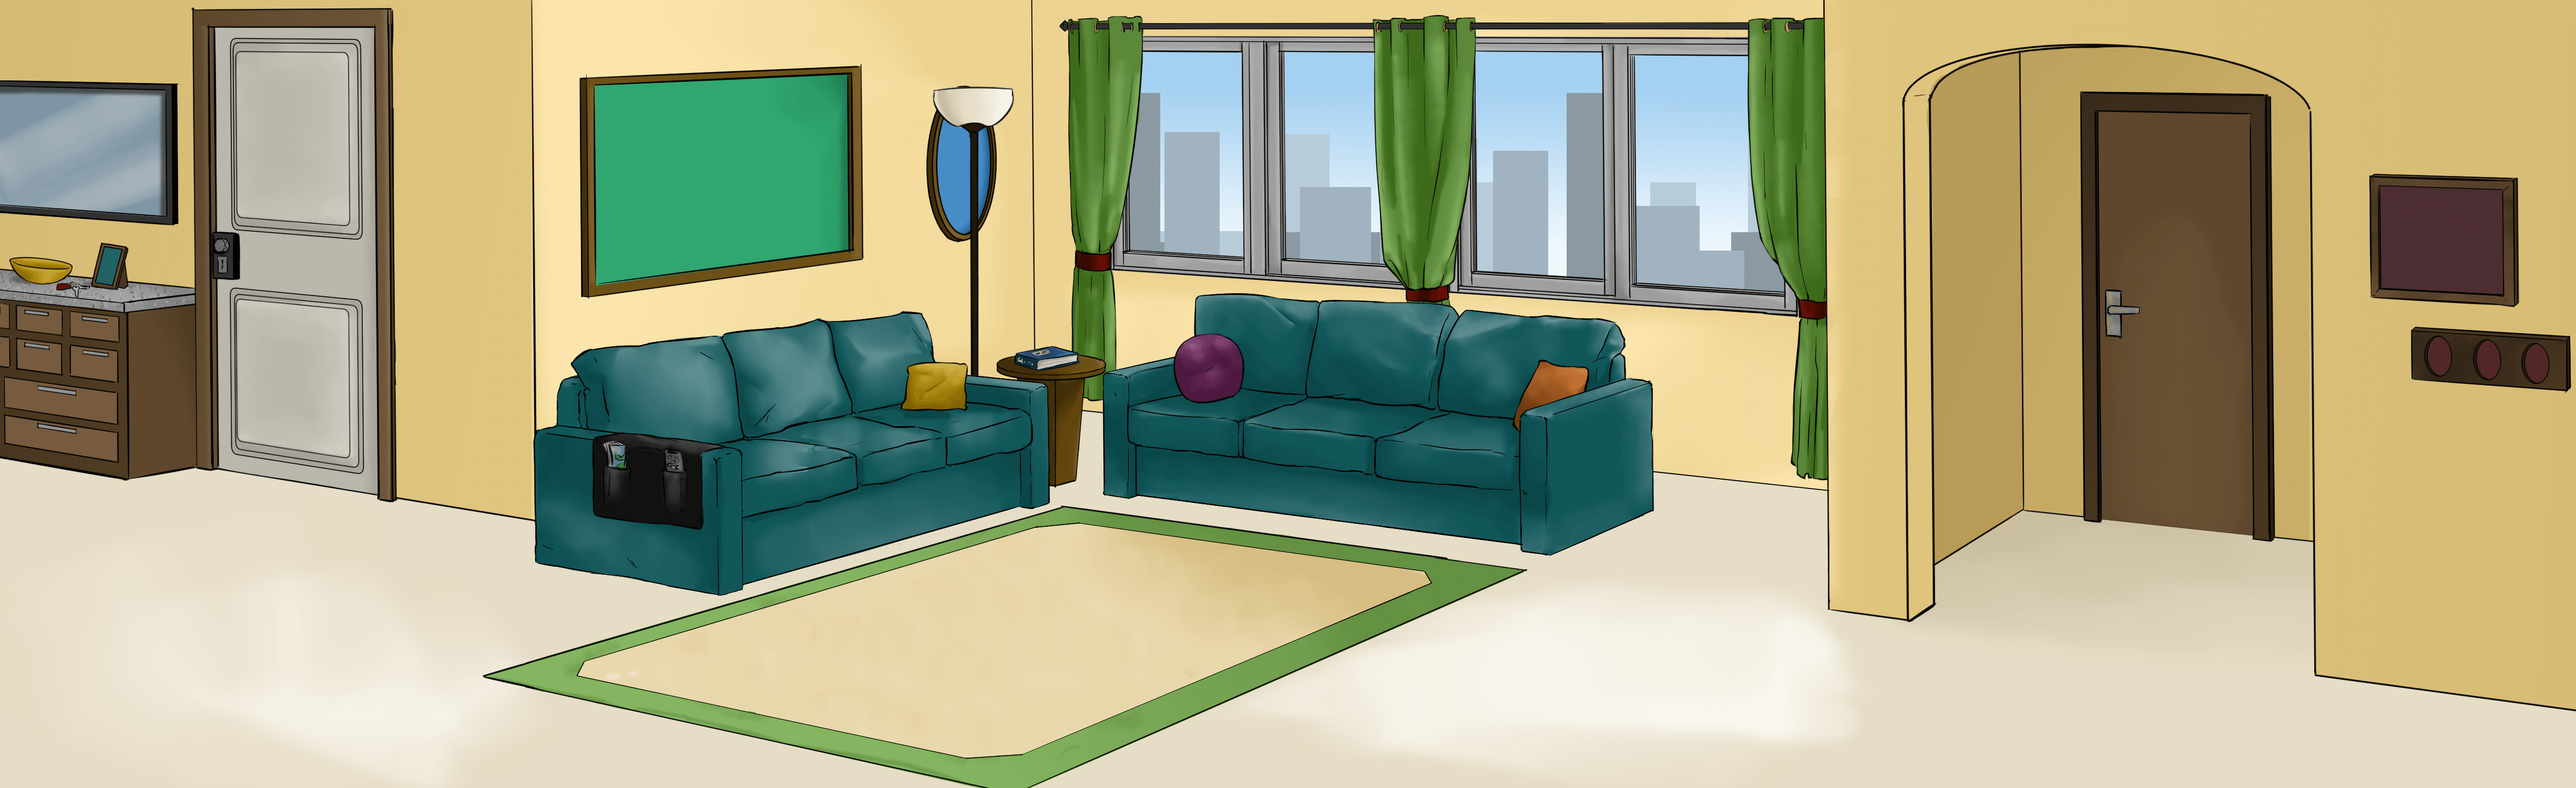
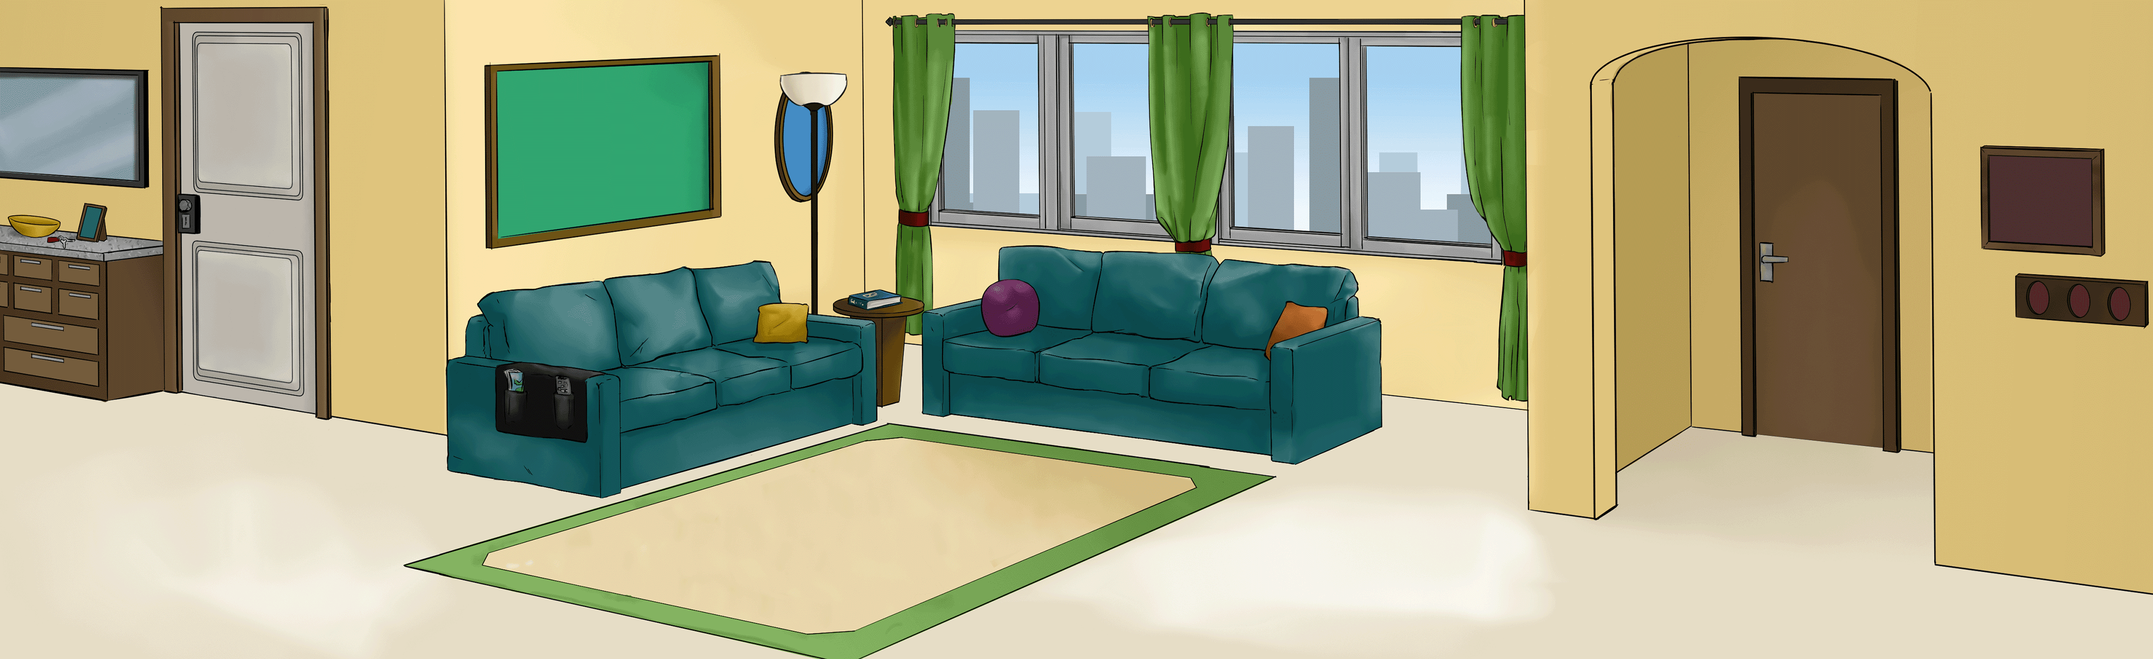
Debería poder cargar la imagen del salón

diff --git a/src/scenes/gameLoop/baseScenarios/livingroomBase.js b/src/scenes/gameLoop/baseScenarios/livingroomBase.js
@@ -23,13 +23,17 @@ export default class LivingroomBase extends BaseScene {
         this.scale = this.CANVAS_HEIGHT / bg.height;
         bg.setScale(this.scale);
 
+        // Escala puesta a mano. La imagen original tenia otras dimensiones, pero debido a su gran
+        // tamano, no es posible cargarla en dispositivos moviles, por lo que se ha reducido 
+        this.scale = this.CANVAS_HEIGHT / 1500;
+
         this.rightBound = bg.displayWidth;
 
         // Puerta a la calle
         this.doorNode = null;
         this.canExit = false;
-        let playgroundDoorClosed = this.add.image(254 * this.scale - 1, 10 * this.scale - 1, this.atlasName, 'livingroomDoorClosed').setOrigin(0, 0).setScale(this.scale);
-        let playgroundDoorOpened = this.add.image(254 * this.scale - 1, 10 * this.scale - 1, this.atlasName, 'livingroomDoorOpened').setOrigin(0, 0).setScale(this.scale);
+        let playgroundDoorClosed = this.add.image(254 * this.scale - 4, 10 * this.scale - 4, this.atlasName, 'livingroomDoorClosed').setOrigin(0, 0).setScale(this.scale);
+        let playgroundDoorOpened = this.add.image(254 * this.scale - 4, 10 * this.scale - 4, this.atlasName, 'livingroomDoorOpened').setOrigin(0, 0).setScale(this.scale);
         // Al hacer click sobre la puerta abierta, si hay algun dialogo que mostrar (para indicar que no se puede salir), se 
         // mostrara. En caso contrario, se pasara a la escena del patio con la camara a la izquierda y se eliminara esta escena
         super.toggleDoor(playgroundDoorClosed, playgroundDoorOpened, () => {
